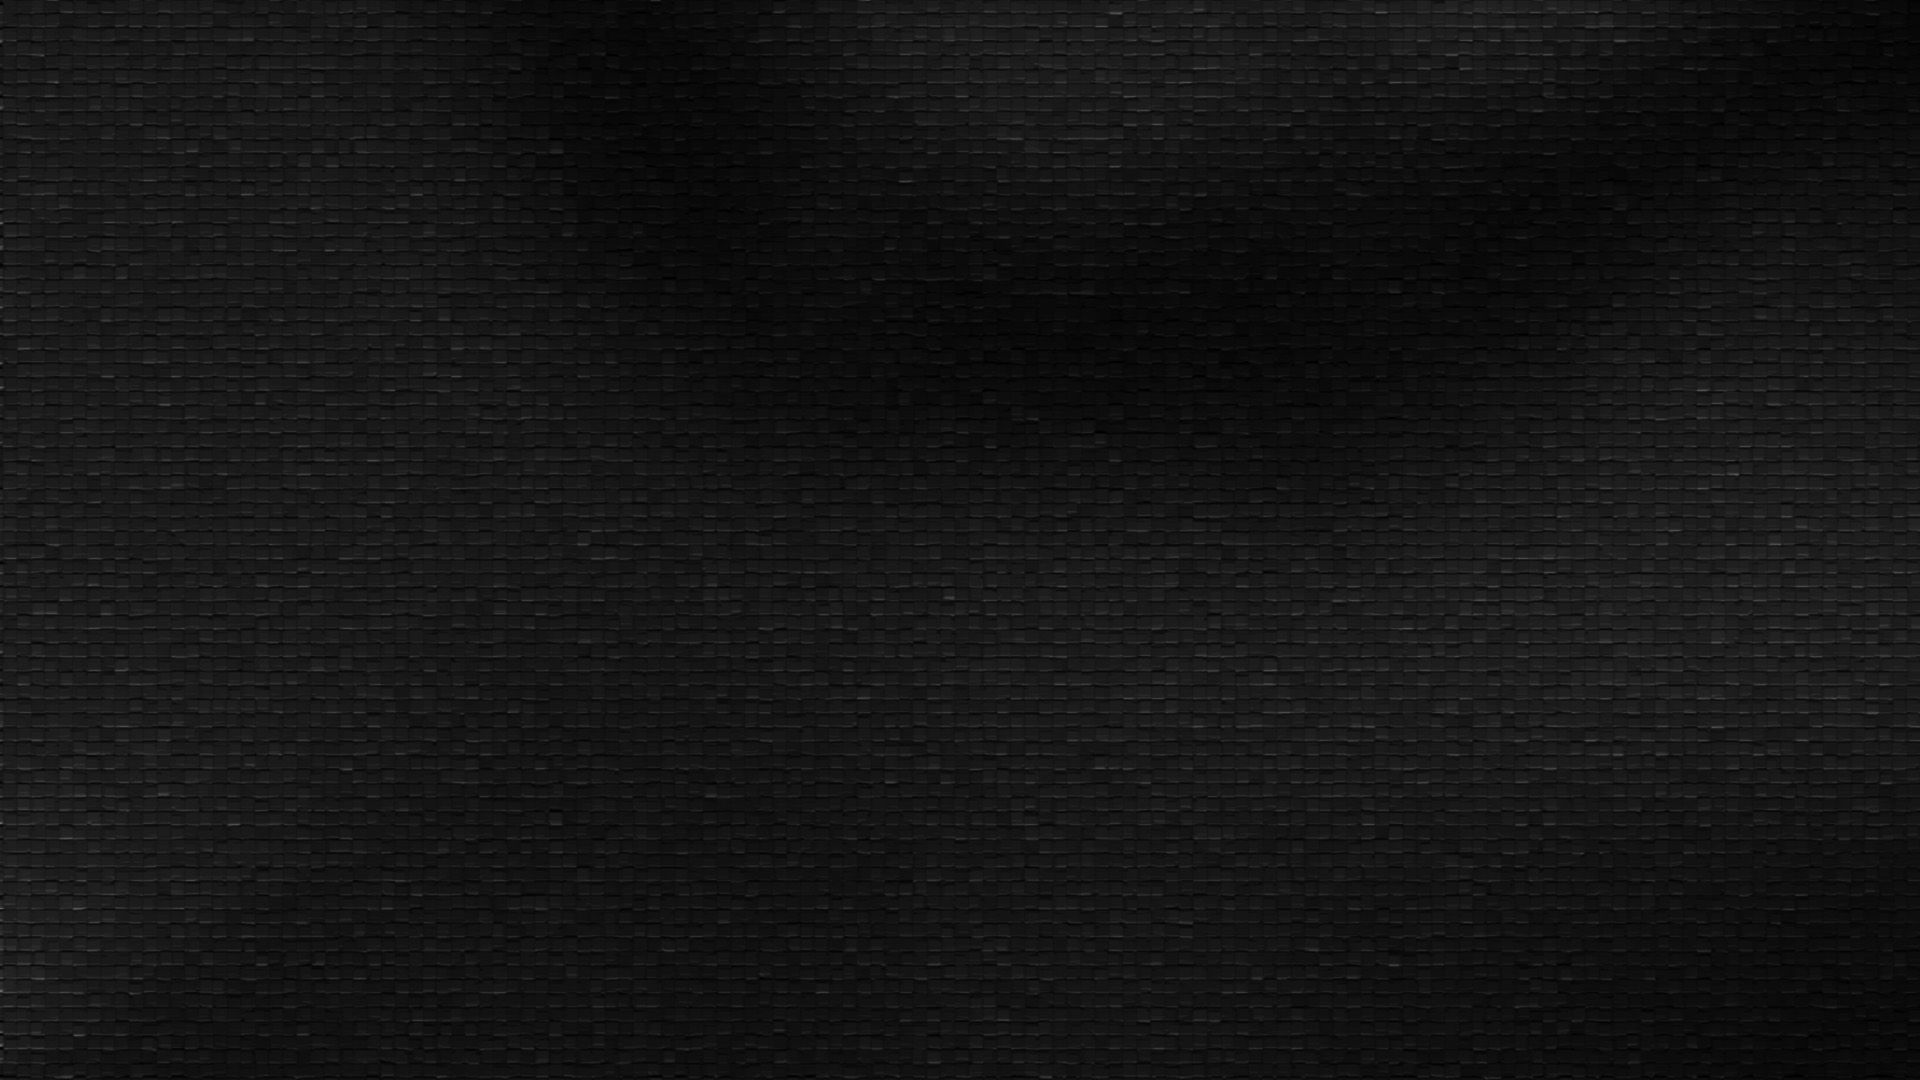
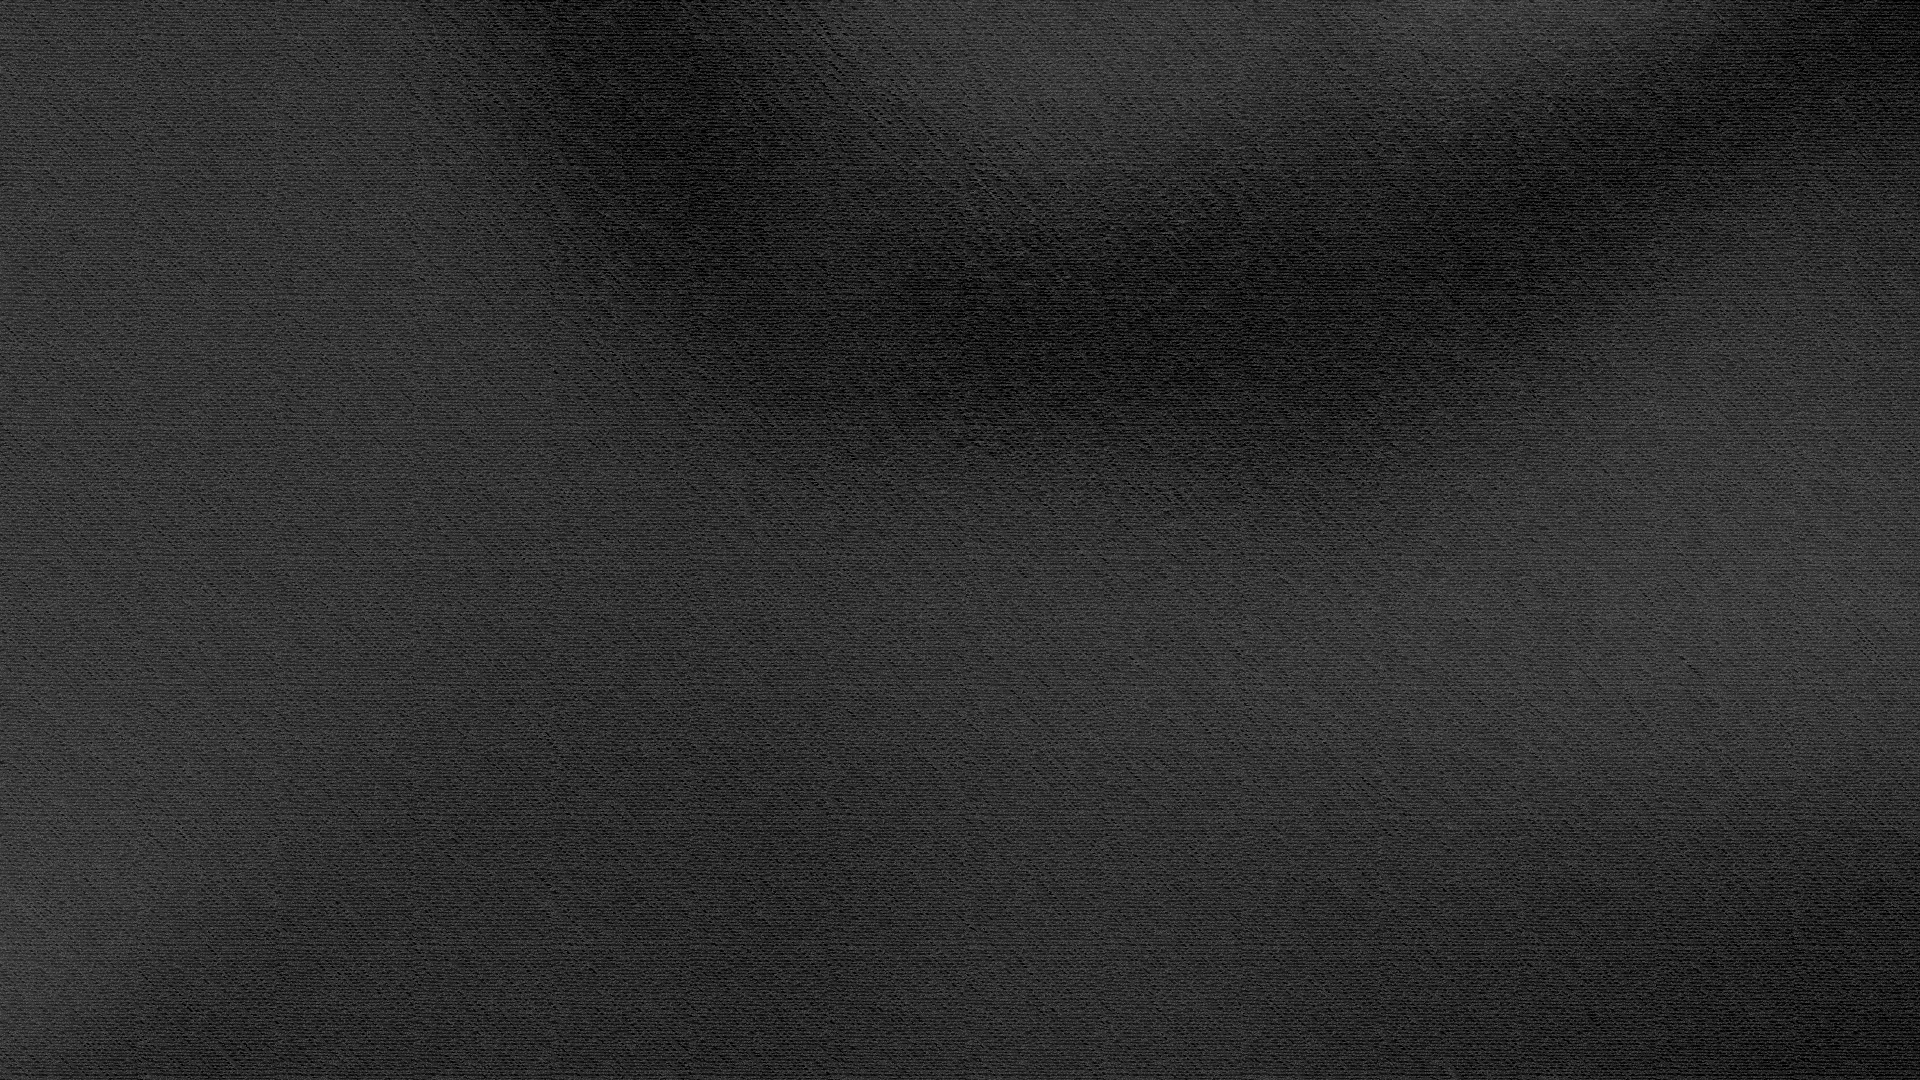
changed fonts

diff --git a/index.html b/index.html
@@ -20,8 +20,10 @@
     <link rel="stylesheet" type="text/css" href="style.css">
     <link rel="stylesheet" type="text/css" href="responsive.css">
 
-    <!--Google Fonts: Source Sans Pro -->
-    <link href='https://fonts.googleapis.com/css?family=Source+Sans+Pro:400,600italic,200,200italic,300,300italic,400italic,600,700,700italic,900,900italic' rel='stylesheet' type='text/css'>
+    <!--Google Fonts: Josefin -->
+    <link href='https://fonts.googleapis.com/css?family=Josefin+Sans:400,100,100italic,300italic,300,400italic,600,600italic,700,700italic'
+          rel='stylesheet' type='text/css'>
+
 </head>
 <body>
 
@@ -100,7 +102,6 @@
         <div class="col-sm-12 title">
             <div class="col-xs-12 title">
                 <h1>
-                    <div class="col-xs-12 name_title">
             <span class="word1">
             <span class="char1">T</span>
             <span class="char2">R</span>
@@ -116,7 +117,6 @@
             <span class="char4">A</span>
             <span class="char5">N</span>
             </span>
-                    </div>
                 </h1>
             </div>
         </div>

diff --git a/style.css b/style.css
@@ -2,7 +2,7 @@
 GENERAL
 *******************************************************************/
 body {
-    font-family: 'Source Sans Pro', sans-serif;
+    font-family: 'Josefin Sans', sans-serif;
     padding: 0;
 }
 
@@ -423,24 +423,17 @@ PAGE: Landing Page
 .land_text::before {
     position: absolute;
     content: '';
-    opacity: 0;
-}
-
-.land_text::before {
+    opacity: .5;
     top: 0;
     left: 0;
     right: 0;
     bottom: 0;
-
     background: #000 url('img/land.jpg') no-repeat 50% 50%;
     background-size: cover;
-    opacity: 0;
+    transition-duration: 2s;
+    transition-delay: 1s;
 }
 
-.landing_div:hover .land_text::before {
-   opacity: .5;
-    transform: scale(1);
-}
 
 
 
@@ -460,7 +453,7 @@ PAGE: Landing Page
 }
 
 .name_title {
-    opacity: 0;
+    opacity: 1;
 }
 
 .title h2 {
